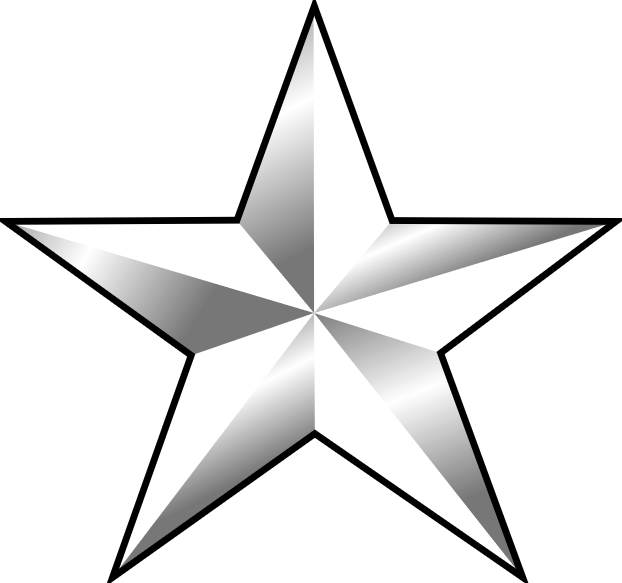
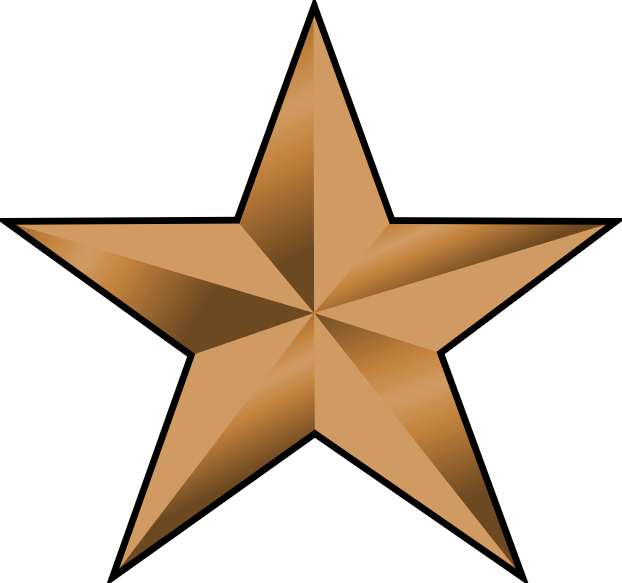
sterren + rank
juiste strren tonen
achievement card op index

diff --git a/pages/index.php b/pages/index.php
@@ -141,7 +141,7 @@
                         <div class="row clearfix">
                             <div class="col-xs-12 col-sm-12">                                        
                                     <?php  
-                                        $sqlklassement = "SELECT bc18_users.user_name, bc18_users.first_name, bc18_klassement.totaal, bc18_users.pic_path FROM bc18_klassement inner join bc18_users on bc18_klassement.email = bc18_users.email WHERE bc18_users.verification = 1 ORDER BY totaal DESC, uitslag_correct DESC, winnaar_correct DESC LIMIT 4";
+                                        $sqlklassement = "SELECT bc18_users.email, bc18_users.user_name, bc18_users.first_name, bc18_klassement.totaal, bc18_users.pic_path FROM bc18_klassement inner join bc18_users on bc18_klassement.email = bc18_users.email WHERE bc18_users.verification = 1 ORDER BY totaal DESC, uitslag_correct DESC, winnaar_correct DESC LIMIT 4";
                                         $results = mysqli_query($db, $sqlklassement);
                                         if (!$results) {
                                             printf("Error: %s\n", mysqli_error($db));
@@ -149,19 +149,34 @@
                                           }
                                         $loop = 1;                                                
                                         while($data = mysqli_fetch_array($results)){
+                                            $adres=$data['email'];
                                             if($data['pic_path']===''){
                                                 $afbeelding = '../images/users/noImage.jpg';
                                             }
                                             else{
                                                 $afbeelding = $data['pic_path'];
                                             }
+                                            $rank = "SELECT * from bc18_achieved where bc18_user = '$adres' ";
+                                            // echo $sql;
+                                            $result = mysqli_query($db,$rank);
+                                            $numberofAchievements = mysqli_num_rows($result);
+                                            if($adres==$_SESSION['email'])
+                                                $achievementsActiveUser = $numberofAchievements;
                                             echo '
                                                     <div class="col-lg-3 col-md-3 col-sm-3 col-xs-3">
                                                       <div>
                                                         <h6><center>'.$loop.'e place</center></h6>
                                                         <img src=" '.$afbeelding.'" alt="" class="img-circle img-responsive">';
-                                                        if( $numberofAchievements>5 && $data['user_name'] == $_SESSION['username'])
-                                                            echo '<img src="../images/1star.svg" alt="" style="display: block;
+                                                        if($numberofAchievements<10 && $numberofAchievements>=5)
+                                                            echo '<img src="../images/1star.png" alt="" style="display: block;
+                                                          max-width: 30%;
+                                                          height: auto; position:absolute; top:37%; left:55%;">';
+                                                        if($numberofAchievements<15 && $numberofAchievements>=10)
+                                                            echo '<img src="../images/2star.png" alt="" style="display: block;
+                                                          max-width: 30%;
+                                                          height: auto; position:absolute; top:37%; left:55%;">';
+                                                        if($numberofAchievements>=15)
+                                                            echo '<img src="../images/3star.png" alt="" style="display: block;
                                                           max-width: 30%;
                                                           height: auto; position:absolute; top:37%; left:55%;">';
                                                         echo '
@@ -328,13 +343,32 @@
                     <div class="body bg">
                         <div class="font-bold m-b--35">ACHIEVEMENTS  <a class="btn btn-small btn-info pull-right" href="profile.php">Full List</a> </div>  <br> <br>
                         
-							<div class="font-bold m-b--35"><center><h1><class="col-blue">xx</font>/20</h1></center></div> 
+							<div class="font-bold m-b--35"><center><h1><class="col-blue"><?php echo $achievementsActiveUser;?></font>/20</h1></center></div> 
 							<ul class="dashboard-stat-list">
                             <li>
-                                CURRENT RANK <span class="pull-right col-blue"><b>Tom Soetaers</b></span> 
+                                <?php
+                                $rank = "Tom Soetaers";
+                                if($achievementsActiveUser<10 && $achievementsActiveUser>=5)
+                                    $rank="Frank Raes";
+                                if($achievementsActiveUser<15 && $achievementsActiveUser>=10)
+                                    $rank="Marc Degryse";
+                                if($achievementsActiveUser>=15)
+                                    $rank="Peter Vandenbempt"
+                            ?>
+                                CURRENT RANK <span class="pull-right col-blue"><b><?php echo $rank; ?></b></span> 
                         	</li>
 							<li>
-								LAST ACHIEVEMENT    <span class="pull-right col-blue"><b>Welcome</b></span>
+                                <?php
+                                    $mail = $_SESSION['email'];
+                                    $rank = "SELECT * from bc18_achieved INNER JOIN bc18_achievements ON bc18_achievements.bc18_id = bc18_achieved.bc18_achievement where bc18_user = 'jordy_vds@msn.com' ORDER BY bc18_created DESC LIMIT 1";
+                                    // echo $sql;
+                                    $result = mysqli_query($db,$rank);
+                                    if($data = mysqli_fetch_array($result)){
+                                        $lastAchieved = $data['bc18_title'];
+                                    }
+
+                                ?>
+								LAST ACHIEVEMENT    <span class="pull-right col-blue"><b><?php echo $lastAchieved; ?></b></span>
 							</li>
 							</ul>
                     </div>
@@ -427,7 +461,7 @@
         
         var deadlinestring = "<?php echo $deadlines; ?>";
         var deadlinesArray = deadlinestring.split(',');
-        console.info(deadlinesArray);
+        // console.info(deadlinesArray);
         var deadline = new Date(Date.parse(new Date(deadlinesArray[0])));
         initializeClock(deadline);
 

diff --git a/pages/klassement.php b/pages/klassement.php
@@ -41,7 +41,7 @@ include('server.php');
 
                                     <?php
 
-                                        $sqlklassement = "SELECT bc18_users.user_name, bc18_klassement.totaal, bc18_klassement.bonus, bc18_klassement.uitslag_correct, bc18_klassement.winnaar_correct, bc18_users.pic_path FROM bc18_klassement inner join bc18_users on bc18_klassement.email = bc18_users.email WHERE bc18_users.verification = 1 ORDER BY totaal DESC, uitslag_correct DESC, winnaar_correct DESC ";
+                                        $sqlklassement = "SELECT bc18_users.email, bc18_users.user_name, bc18_klassement.totaal, bc18_klassement.bonus, bc18_klassement.uitslag_correct, bc18_klassement.winnaar_correct, bc18_users.pic_path FROM bc18_klassement inner join bc18_users on bc18_klassement.email = bc18_users.email WHERE bc18_users.verification = 1 ORDER BY totaal DESC, uitslag_correct DESC, winnaar_correct DESC ";
                                         $results = mysqli_query($db, $sqlklassement);
                                         if (!$results) {
                                             printf("Error: %s\n", mysqli_error($conn));
@@ -49,27 +49,35 @@ include('server.php');
                                           }
                                         $ranking = 1;
                                         while($data = mysqli_fetch_array($results)){
-                                             if($data['pic_path']===''){
-                                                        $afbeelding = '../images/users/noImage.jpg';
-                                                    }
-                                                    else{
-                                                        $afbeelding = $data['pic_path'];
-                                                    }
-                                        echo'
-                                            <tr>
-                                                <th scope="row">'.$ranking.'</th>
-                                                <td><img style="max-height:40px;" src="'.$afbeelding.'" alt="" class="img-circle">';
-                                            if( $numberofAchievements>5 && $data['user_name'] == $_SESSION['username'])
-                                                echo '<img style="max-height:20px; position: relative; left:-20px; top:15px;" src="../images/1star.svg" alt="" > ';
+                                            $adres = $data['email'];
+                                            if($data['pic_path']===''){
+                                                $afbeelding = '../images/users/noImage.jpg';
+                                                }
+                                            else{
+                                                $afbeelding = $data['pic_path'];
+                                            }
+                                            $rank = "SELECT * from bc18_achieved where bc18_user = '$adres' ";
+                                            // echo $sql;
+                                            $result = mysqli_query($db,$rank);
+                                            $numberofAchievements = mysqli_num_rows($result);
+                                            echo'
+                                                <tr>
+                                                    <th scope="row">'.$ranking.'</th>
+                                                    <td><img style="max-height:40px;" src="'.$afbeelding.'" alt="" class="img-circle">';
+                                            if($numberofAchievements<10 && $numberofAchievements>=5)
+                                                echo '<img style="max-height:20px; position: relative; left:-20px; top:15px;" src="../images/1star.png" alt="">';
+                                            if($numberofAchievements<15 && $numberofAchievements>=10)
+                                                echo '<img style="max-height:20px; position: relative; left:-20px; top:15px;" src="../images/2star.png" alt="">';
+                                            if($numberofAchievements>=15)
+                                                echo '<img style="max-height:20px; position: relative; left:-20px; top:15px;" src="../images/3star.png" alt="">';
                                             echo $data['user_name'].'</td>
                                                 <td>'.$data['winnaar_correct'].'</td>
                                                 <td>'.$data['uitslag_correct'].'</td>
 												<td>'.$data['bonus'].'</td>
                                                 <td><b>'.$data['totaal'].'</b></td>
-                                            </tr>
-                                        ';
-                                        $ranking++;
-                                        }
+                                            </tr>';
+                                            $ranking++;
+                                            }
                                         ?>
                                 </tbody>
                             </table>

diff --git a/pages/adminpage.php b/pages/adminpage.php
@@ -79,13 +79,12 @@
 	$response_wc_fixtures = file_get_contents($WC_fixtures, false, $stream_context);
 	$response_wc_fixtures = json_decode($response_wc_fixtures);
 	
-	$stmt = $db->prepare("UPDATE bc18_games SET matchday = ?, goals_home = ?, goals_away = ?, status = ? WHERE team_home = ? AND team_away = ?");
+	$stmt = $db->prepare("UPDATE bc18_games SET matchday = ?, goals_home = ?, goals_away = ?, status = ?, href = ? WHERE team_home = ? AND team_away = ?");
 
 	foreach ($response_wc_fixtures->fixtures as $fixture) {
 		 $datum = $fixture->date;
 		 // echo $datum;
 
-		 // TODO DATUM BEVAT tijd in UTC --> eerst omzetten naar onze tijdzone
 		 $hometeam = $fixture->homeTeamName;
 		 $awayteam = $fixture->awayTeamName;
 		 $goalshome = $fixture->result->goalsHomeTeam;
@@ -102,7 +101,8 @@
 
 		 // query zonder datum
 	 	// misschien nog aanpassen naar ssss indien van API string ontvangen wordt voor goal
-  		$stmt->bind_param('iiisss', $matchday, $goalshome, $goalsaway, $status, $hometeam, $awayteam);
+  		
+  		$stmt->bind_param('iiissss', $matchday, $goalshome, $goalsaway, $status, $href, $hometeam, $awayteam);
   		$stmt->execute();
   		
 		//$query = "UPDATE bc18_games SET goals_home = '$goalshome', goals_away = '$goalsaway' WHERE team_home = '$hometeam' AND team_away = '$awayteam'";

diff --git a/pages/navigator.php b/pages/navigator.php
@@ -244,8 +244,12 @@
                 <div class="image">
                     <img src="<?php echo $_SESSION['profilepicpath'] ?>" width="48" height="48" alt="User" class="img-responsive"/>
                     <?php 
-                    if( $numberofAchievements>5)
-                        echo '<img src="../images/1star.svg" style="width:25px; position: absolute; top:40px; left:50px" />'; 
+                    if($numberofAchievements<10 && $numberofAchievements>=5)
+                        echo '<img src="../images/1star.png" style="width:25px; position: absolute; top:40px; left:50px" />'; 
+                    if($numberofAchievements<15 && $numberofAchievements>=10)
+                        echo '<img src="../images/2star.png" style="width:25px; position: absolute; top:40px; left:50px" />'; 
+                    if($numberofAchievements>=15)
+                        echo '<img src="../images/3star.png" style="width:25px; position: absolute; top:40px; left:50px" />'; 
                     ?>
                 </div>
                 <div class="info-container">

diff --git a/pages/profile.php b/pages/profile.php
@@ -45,8 +45,12 @@
                 <div class="useravatar">
                     <img class="mainImage" alt="" src="<?php echo $_SESSION["profilepicpath"]; ?>">
                     <?php
-                    if( $numberofAchievements>5)
-                        echo '<img class="secondImage" alt="star" src="../images/1star.svg">';
+                    if($numberofAchievements<10 && $numberofAchievements>=5)
+                        echo '<img class="secondImage" alt="star" src="../images/1star.png">';
+                    if($numberofAchievements<15 && $numberofAchievements>=10)
+                        echo '<img class="secondImage" alt="star" src="../images/2star.png">';
+                    if($numberofAchievements>=15)
+                        echo '<img class="secondImage" alt="star" src="../images/3star.png">';
                     ?>
                     
                 </div>

diff --git a/README.md b/README.md
@@ -31,7 +31,7 @@
 - [ ] vuilste ploeg bonus berekenen
 - [ ] code voor achievements berekenen
 - [x] contact page --> messages dubbel in db en op pagina
-- [ ] juiste ster tonen bij juiste aantal achievements
+- [x] juiste ster tonen bij juiste aantal achievements
 
 ##### Veiligheid:
 
